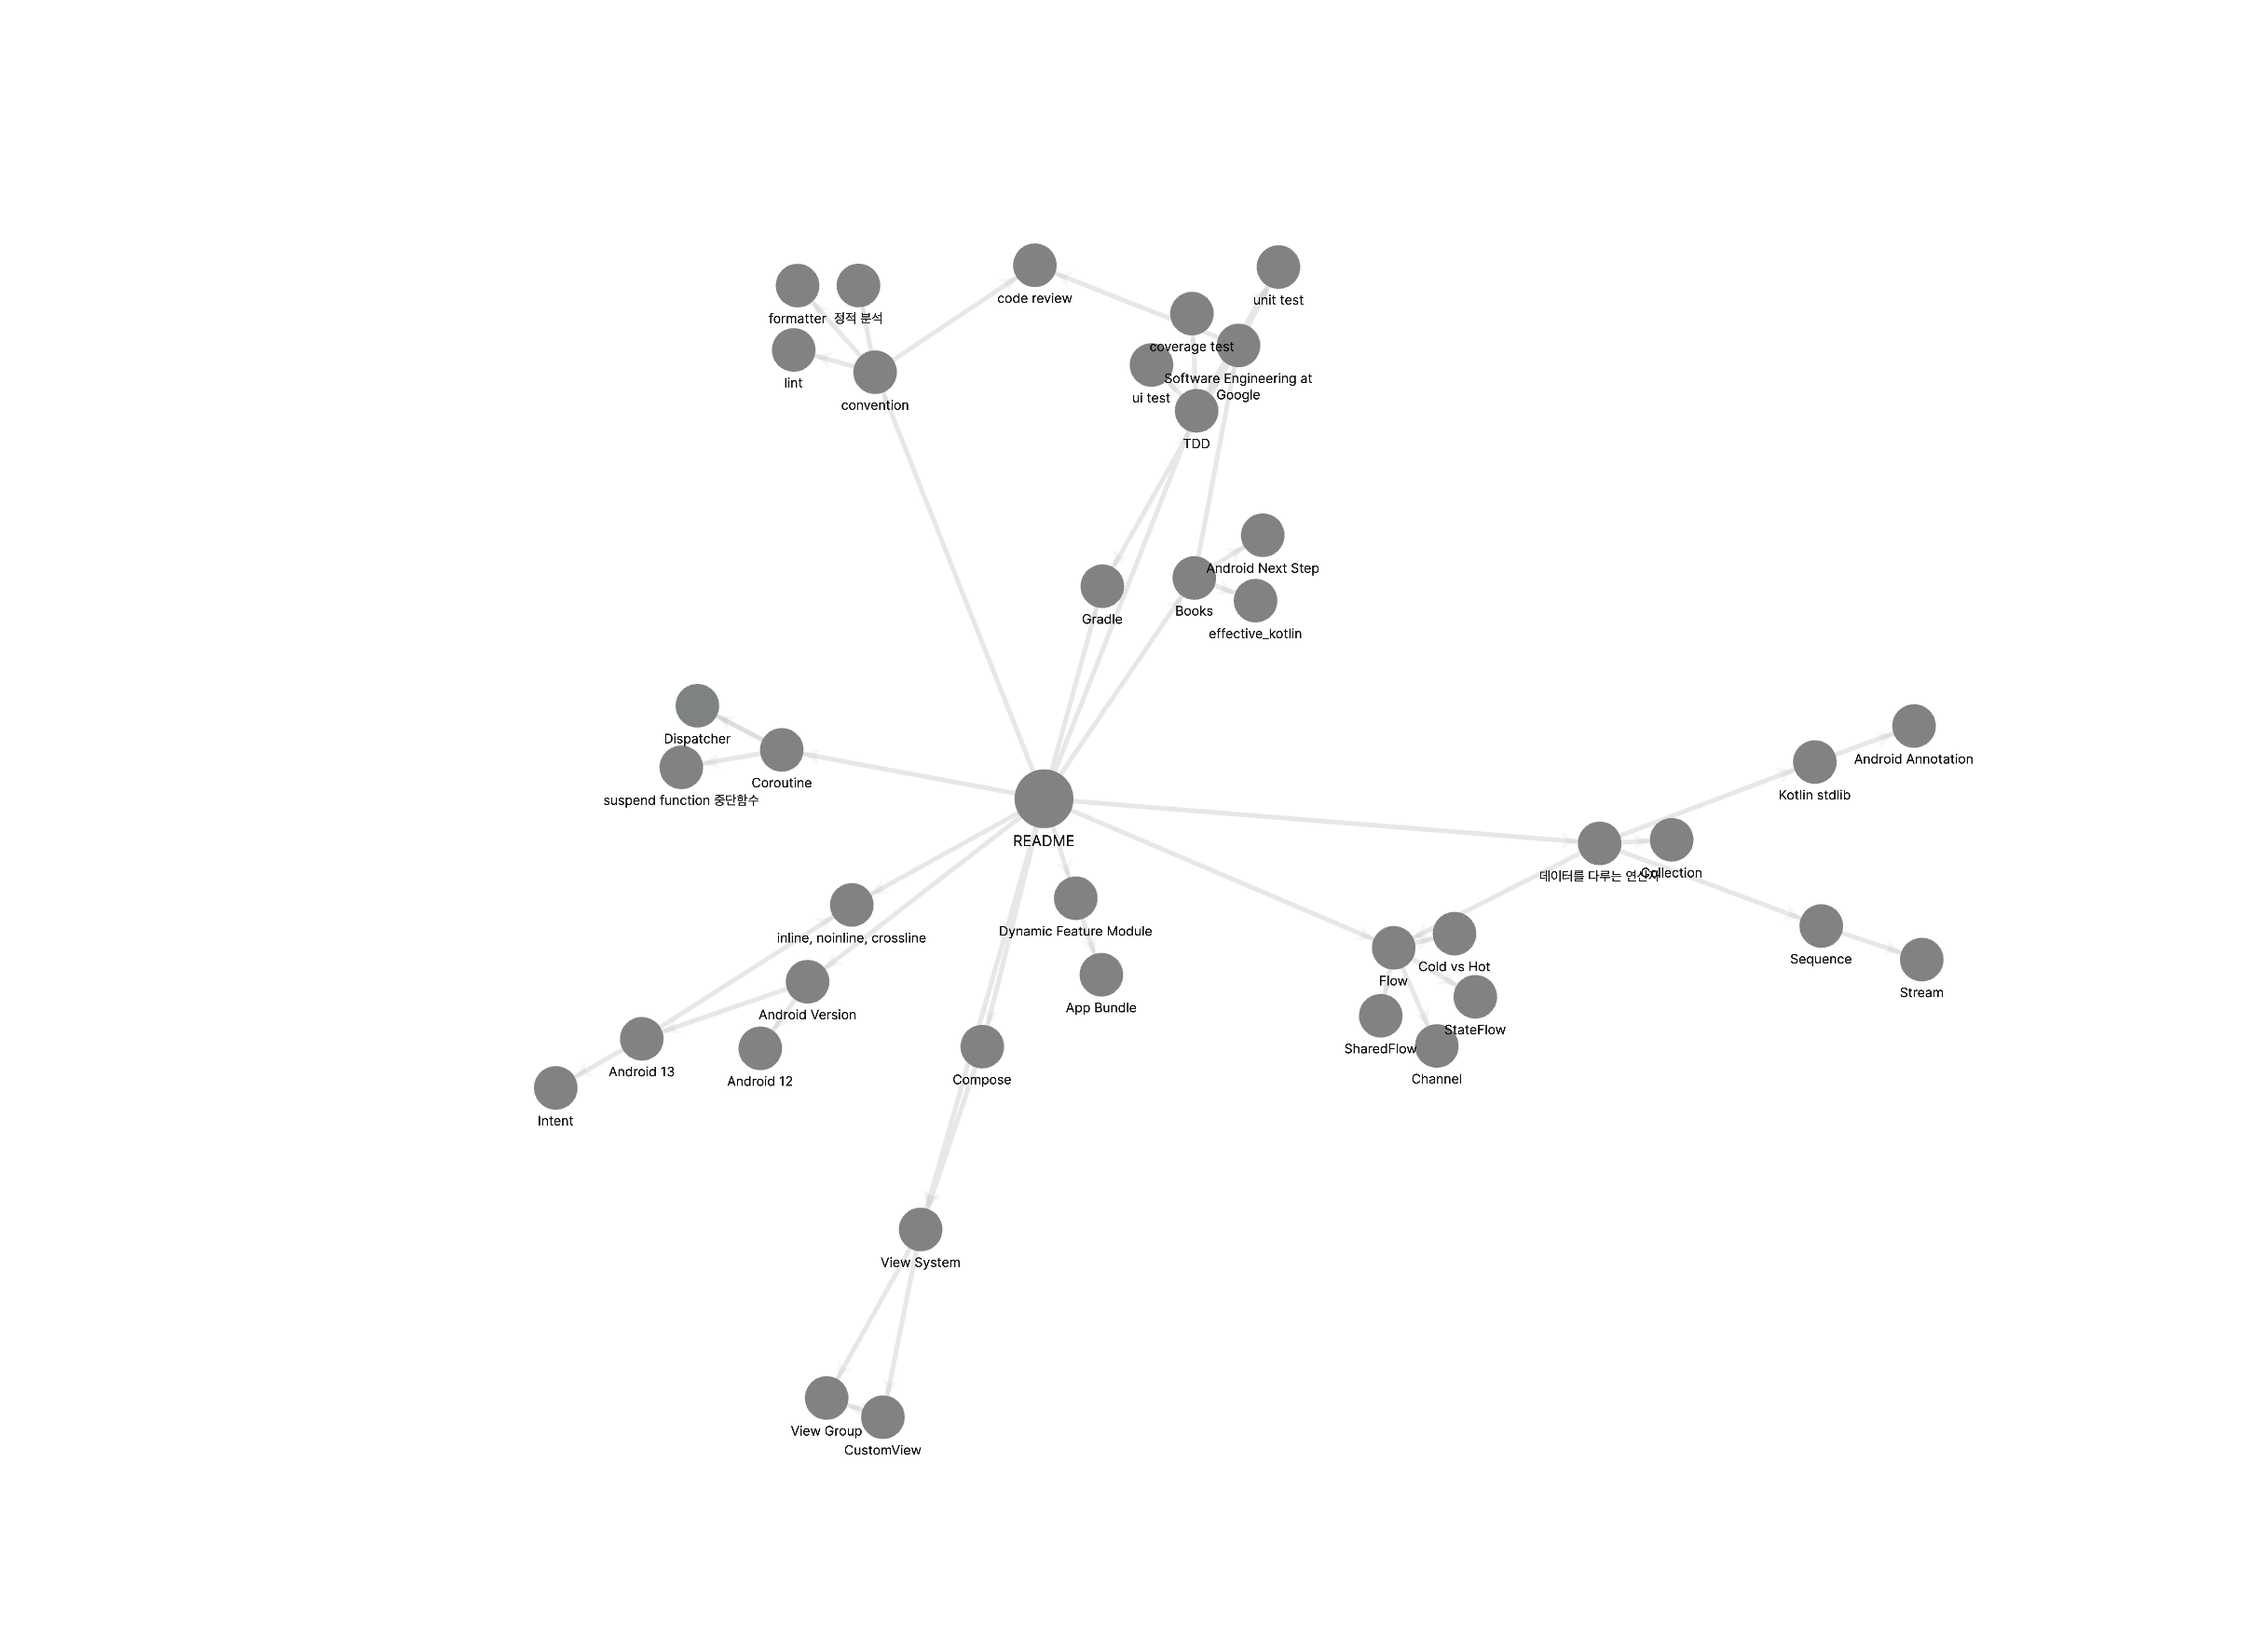
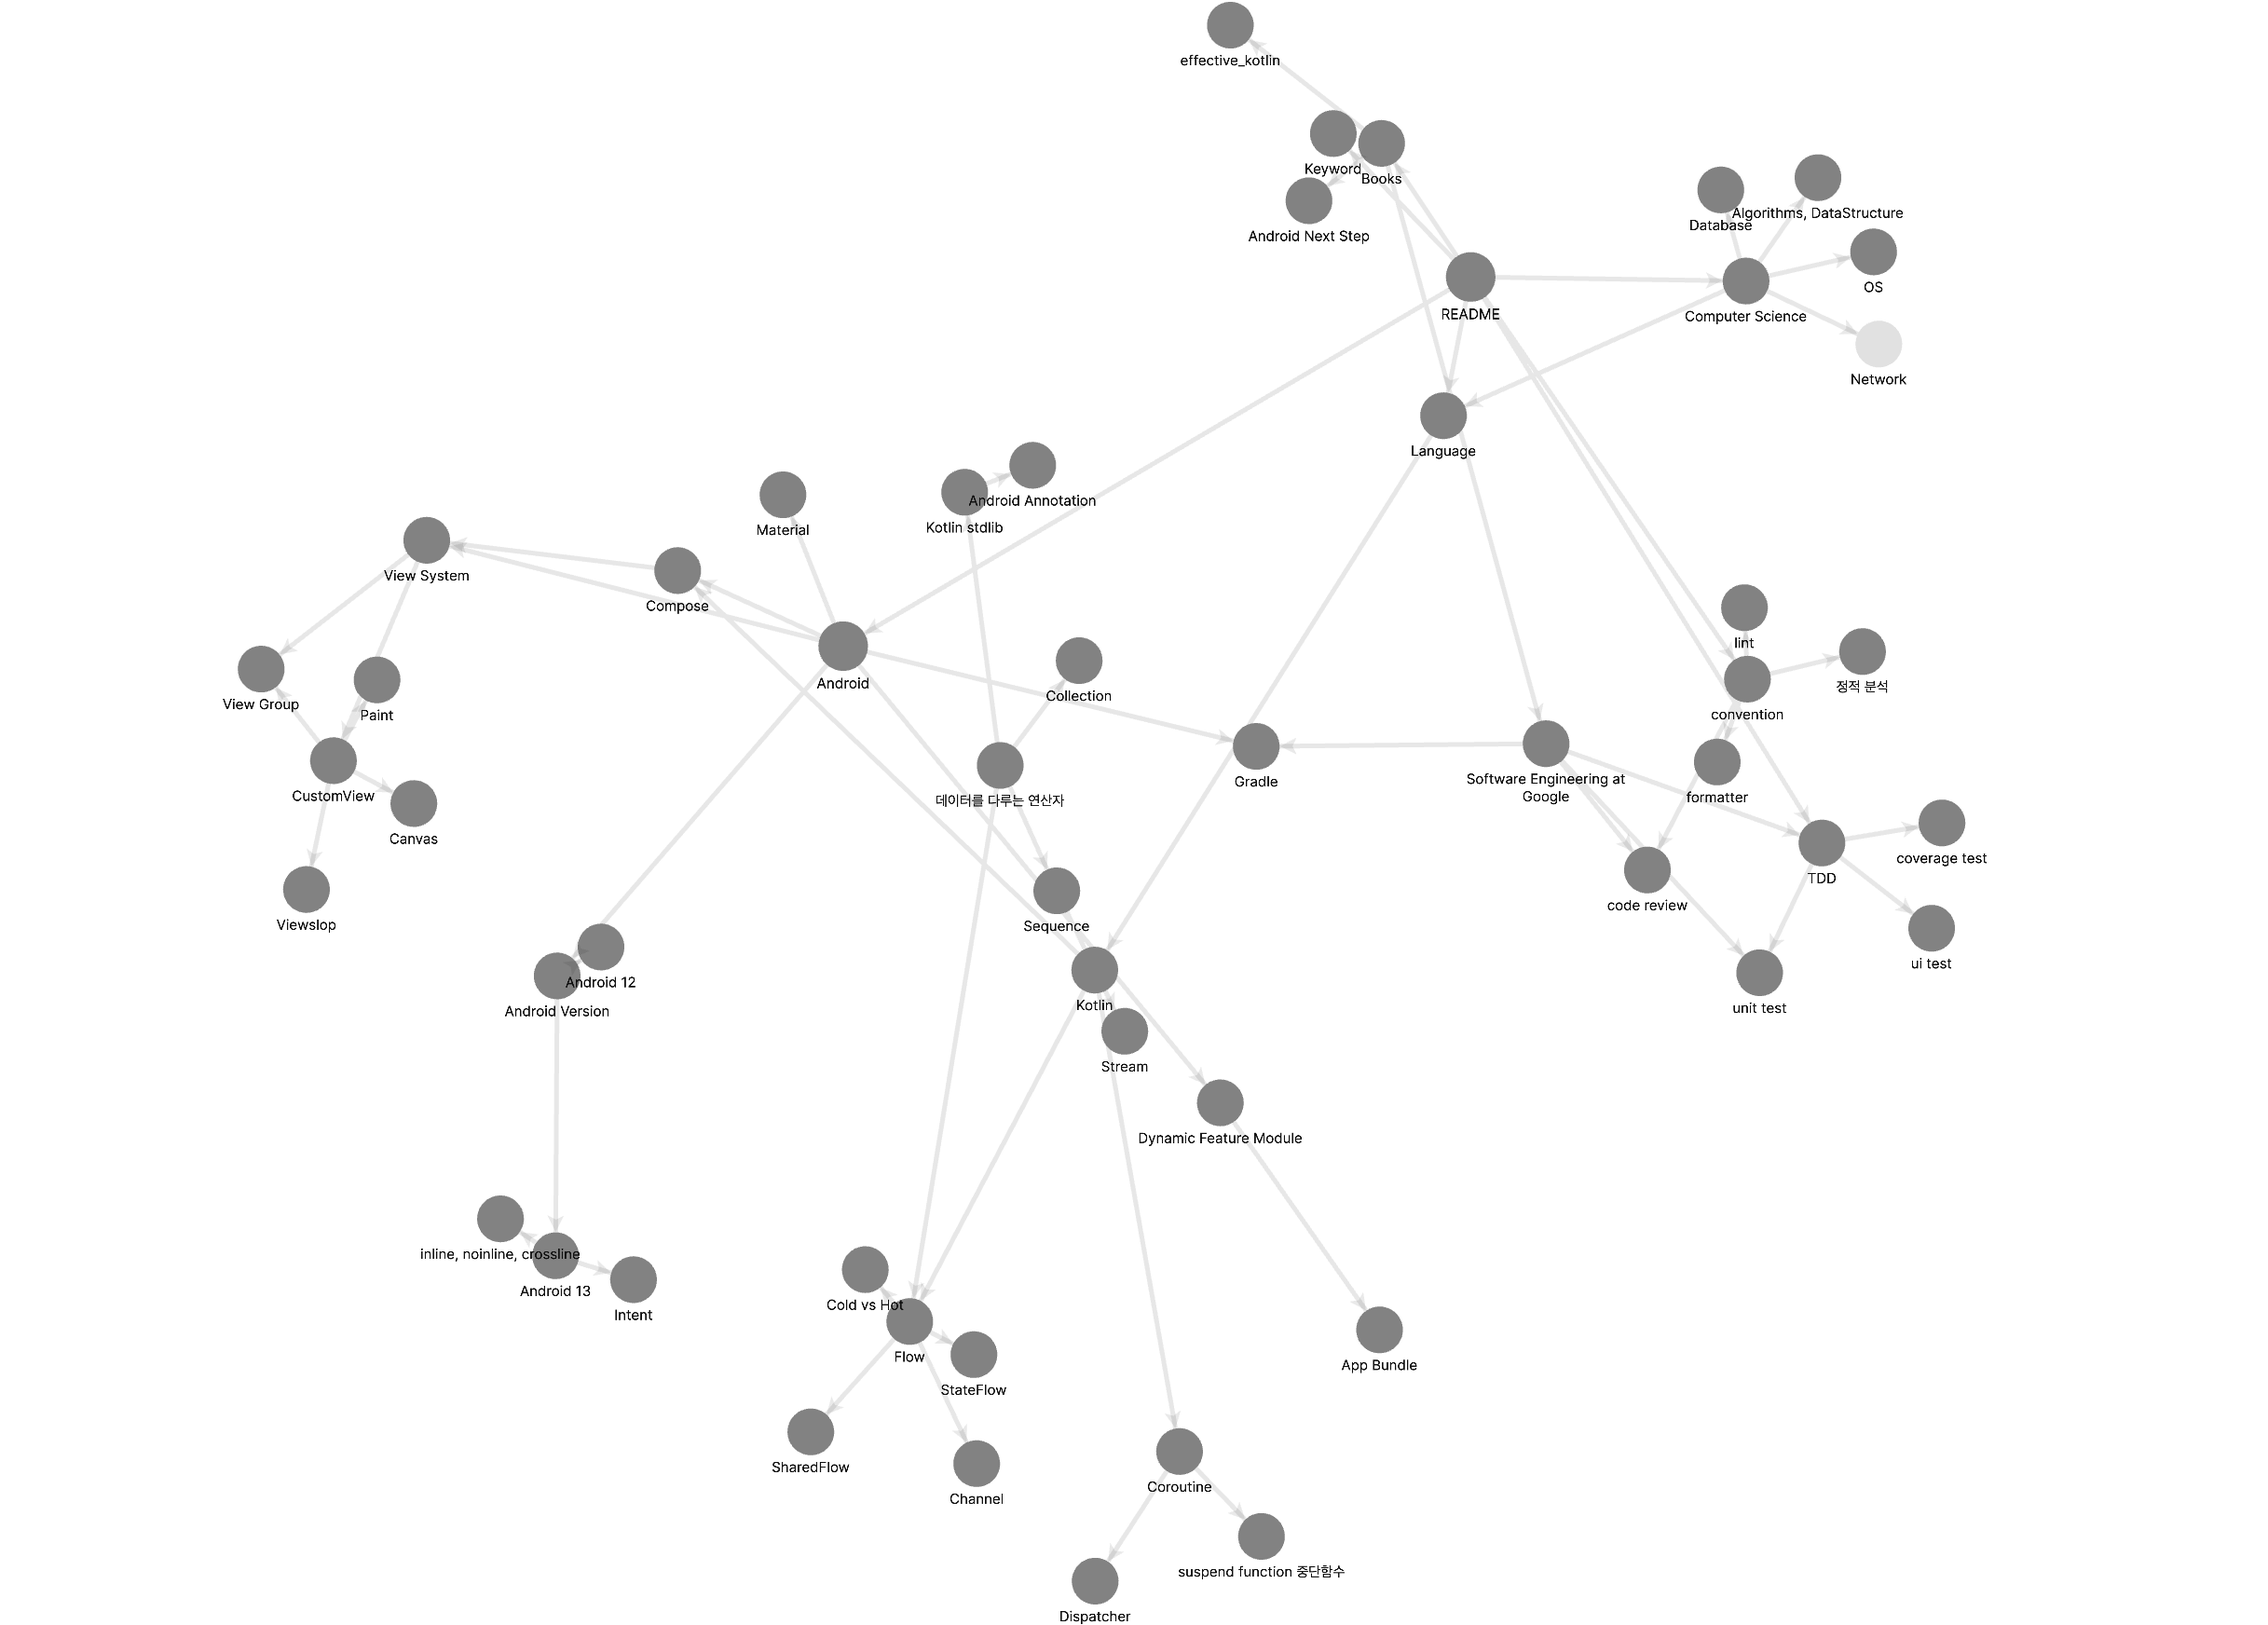
update vault

diff --git a/README.md b/README.md
@@ -2,25 +2,12 @@
 ![graph](./res/nodes.png)
 
 ## Books [[Books]]
-## Android
-- Dynamic module (동적 모듈) [[Dynamic Feature Module]]
-- Gradle, Kotlin DSL [[Gradle]]
-
-### Android Version (특이사항 정리) [[Android Version]]
-### View System [[View System]]
-
-## Kotlin
-- 코틀린 연산자 [[데이터를 다루는 연산자]]
-- inline, noinline, crossinline [[inline, noinline, crossline]]
-### Coroutine [[Coroutine]]
-### Flow [[Flow]]
-### Compose [[Compose]]
-
-## Material
-- Bottom App Bar
-- Floation Action Button
+## Computer Science [[Computer Science]]
+## Android [[Android]]
+## Language [[Language]]
 ## Convention [[convention]]
 ## Test [[TDD]]
+## Keyword [[Keyword]]
 ## Todo
 - 저장소 구경하기
 	- https://github.com/android/compose-samples

diff --git a/Language/Kotlin/Compose/Compose.md b/Language/Kotlin/Compose/Compose.md
@@ -1,0 +1,5 @@
+Compose 는 Kotlin 으로 구현되는 선언형 UI 시스템. 기존 Android 에서는 xml 을 만들고(View System [[View System]])그안에 데이터를 채우는 형태로 UI 를 작성하였지만 (물론 코드로 View 를 생성하여 추가를 하는 방법도 있다.), Compose 는 Only 코드를 통해서 UI 를 그린다. 
+
+## Keyword
+- CompositionLocalProvider
+- Surface

diff --git a/android/view/CustomView.md b/android/view/CustomView.md
@@ -13,3 +13,9 @@ CustomView 에서 제일 중요한 3가지 함수는 아래 3함수이다.
 ## View Update
 - invalidate()
 - requestLayout()
+
+## ViewSlop [[Viewslop]]
+
+## Reference 
+https://developer.android.com/reference/android/view/View
+https://developer.android.com/develop/ui/views/layout/custom-views/custom-components

diff --git a/android/Android.md b/android/Android.md
@@ -1,0 +1,8 @@
+- Dynamic module (동적 모듈) [[Dynamic Feature Module]]
+- Gradle, Kotlin DSL [[Gradle]]
+- Android Version [[Android Version]]
+- UI
+	- Compose [[Compose]]
+	- ViewSystem [[View System]]
+	- Material [[Material]]
+- Library [[Library]]

diff --git a/android/version/Android 13.md b/android/version/Android 13.md
@@ -13,3 +13,5 @@ inline fun <reified T> Bundle.parcelable(key: String, clazz: Class<T>): T? = whe
   else -> @Suppress("DEPRECATION") getParcelable(key) as? T
 }
 ```
+
+## Privacy SandBox 

diff --git a/cs/Computer Science.md b/cs/Computer Science.md
@@ -1,0 +1,5 @@
+## Operation System [[OS]]
+## Database [[Database]]
+## Network [[Network]]
+## Algorithms, DataStructure [[Algorithms, DataStructure]]
+## Language [[Language]]

diff --git a/android/library/Library.md b/android/library/Library.md
@@ -1,0 +1,10 @@
+- Image
+	- Glide [[Glide]]
+	- Coil [[Coil]]
+- Sound
+	- ExoPlayer
+- Video 
+	- ExoPlayer
+- Network
+	- okhttp [[okhttp]]
+	- Retrofit [[retrofit]]

diff --git a/cs/Network/Network.md b/cs/Network/Network.md
@@ -1,0 +1,5 @@
+- REST [[REST]]
+- GraphQL [[GraphQL]]
+- gRPC [[gRPC]]
+- okhttp [[okhttp]]
+- retrofit [[retrofit]]

diff --git a/Keyword.md b/Keyword.md
@@ -1,0 +1,4 @@
+- Gson, Jackson, moshi, kotlin serialization
+- kapt
+- ksp
+- 함수형 프로그래밍

diff --git a/android/view/Viewslop.md b/android/view/Viewslop.md
@@ -1,0 +1,2 @@
+## 참고 자료 
+- [삽질] 버튼의 클릭 터치 영역 커스텀 해보기

diff --git a/Language/Kotlin/Coroutines/Coroutine.md b/Language/Kotlin/Coroutines/Coroutine.md
@@ -1,0 +1,2 @@
+- Dispatcher [[Dispatcher]]
+- suspend function [[suspend function]]

diff --git a/Language/Kotlin/Kotlin.md b/Language/Kotlin/Kotlin.md
@@ -1,0 +1,3 @@
+## Coroutine [[Coroutine]]
+## Flow [[Flow]]
+## Compose [[Compose]]
